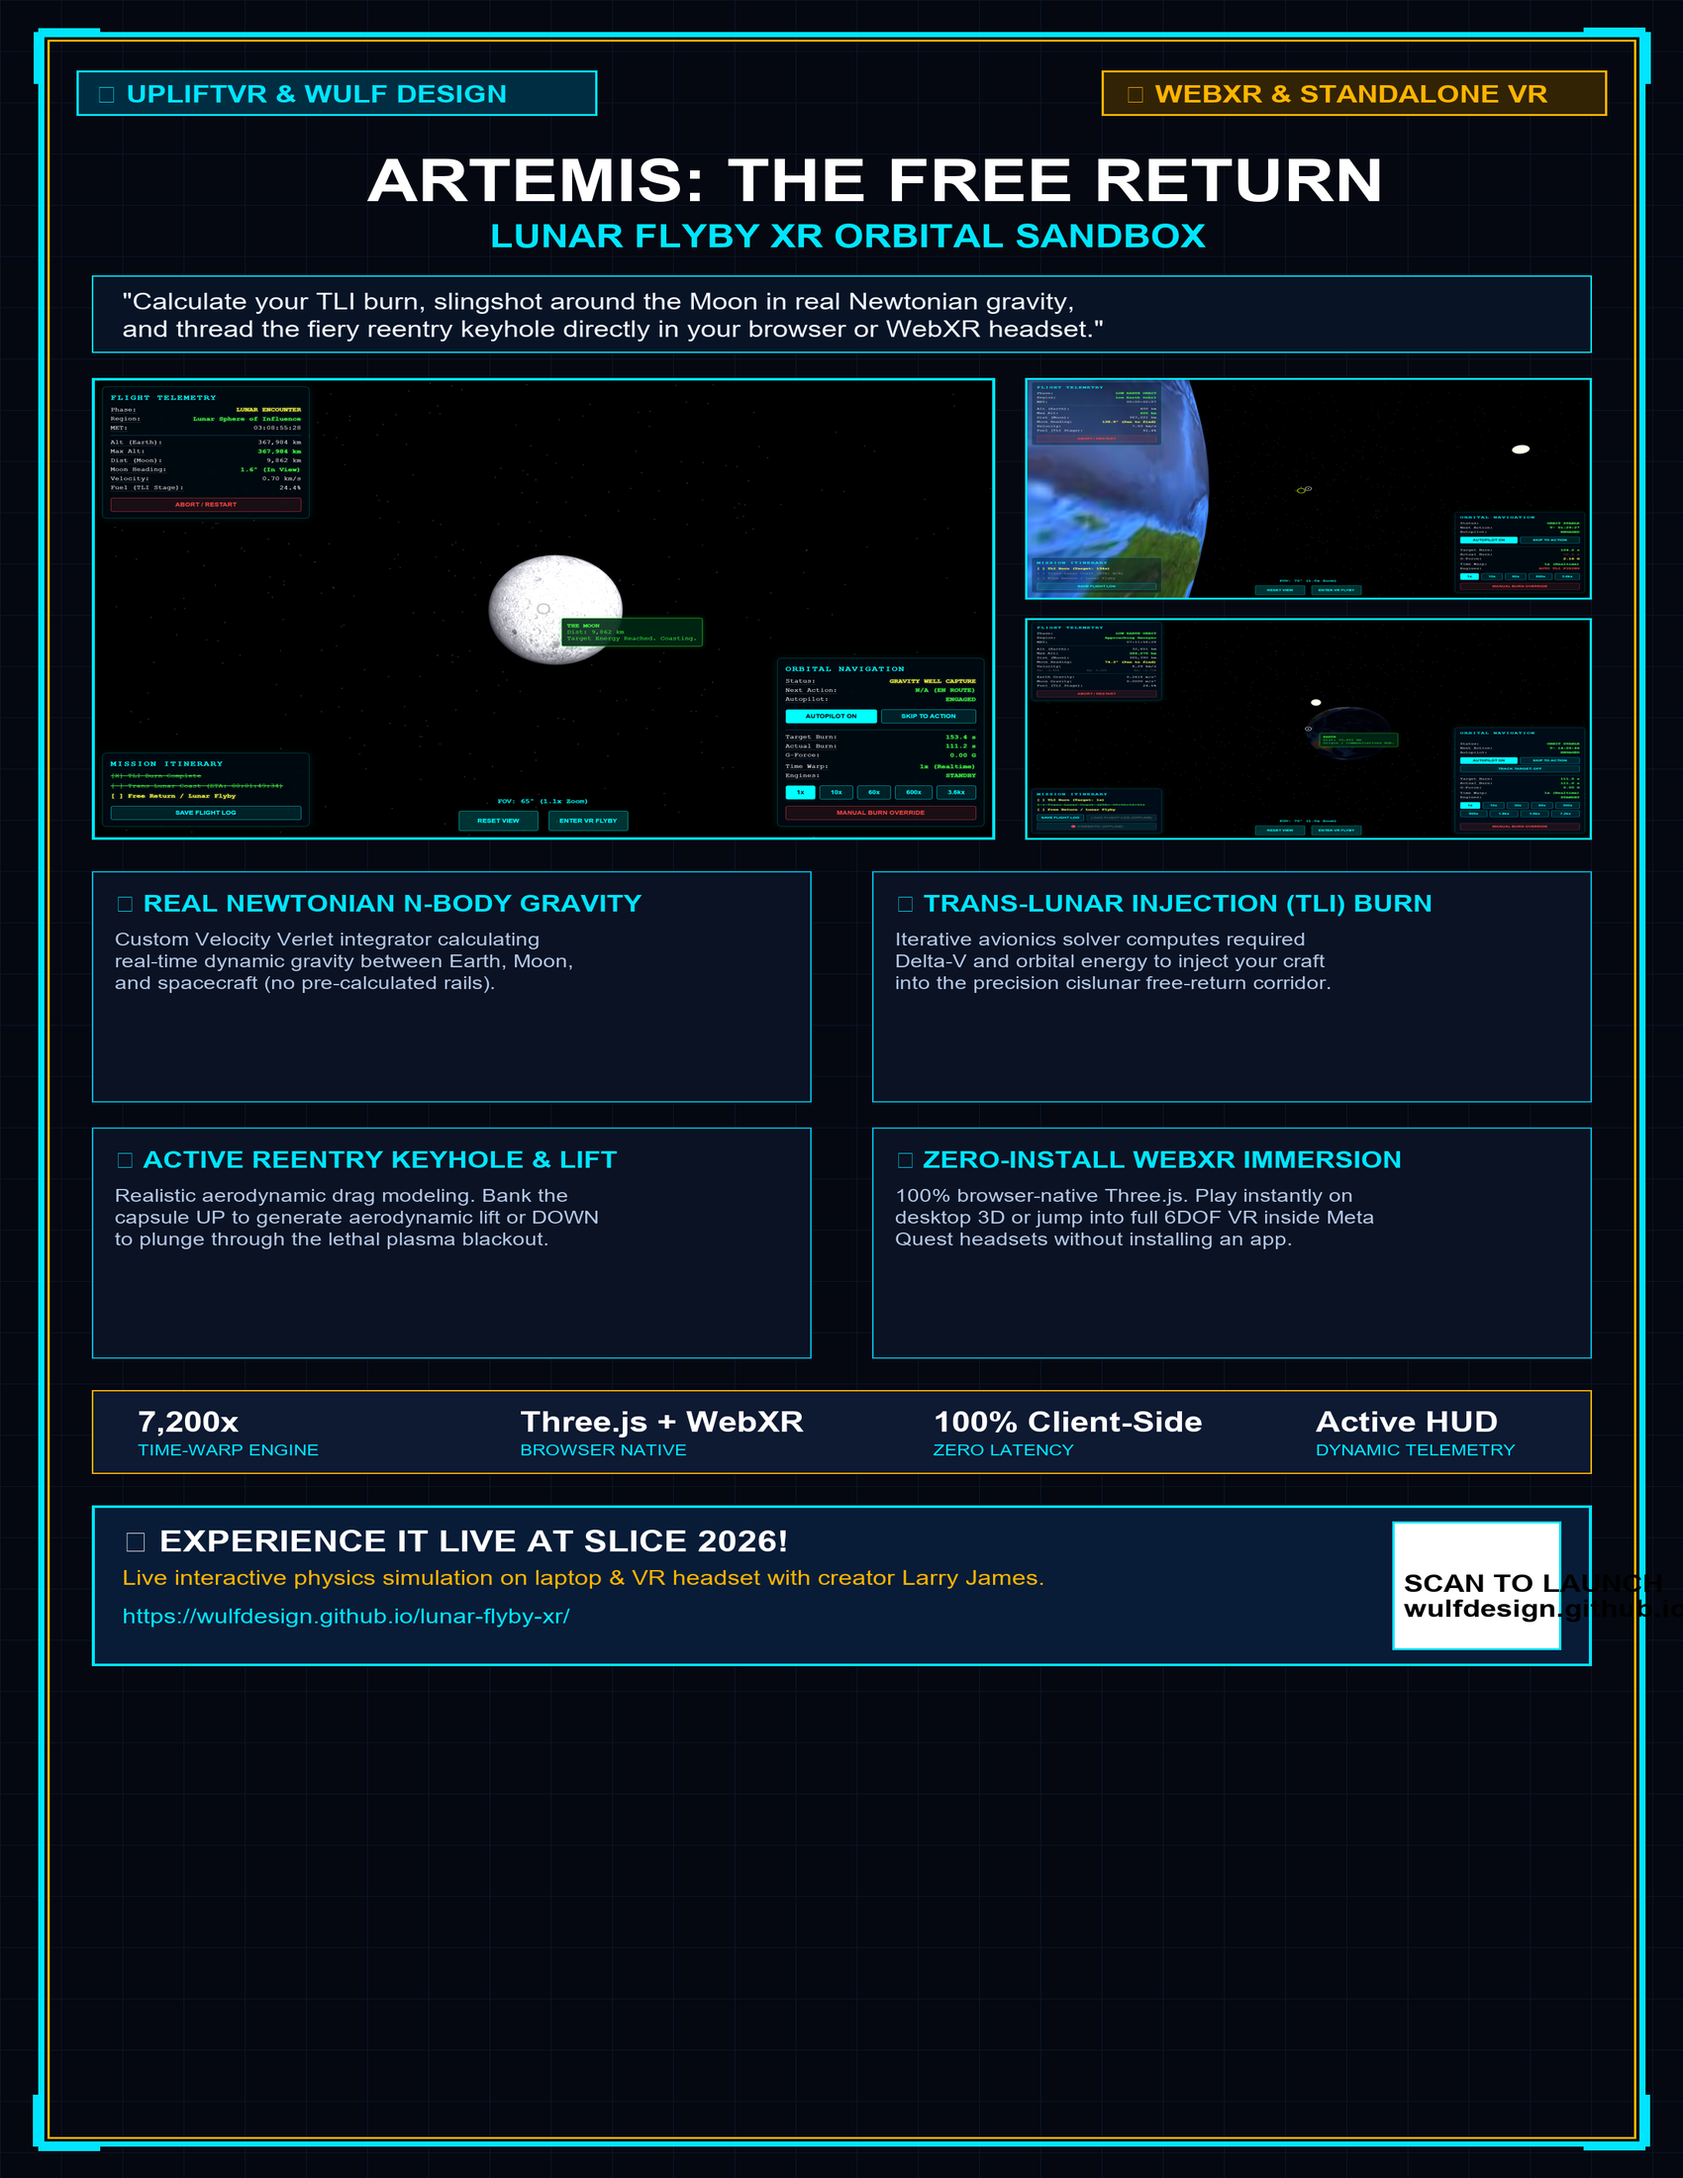
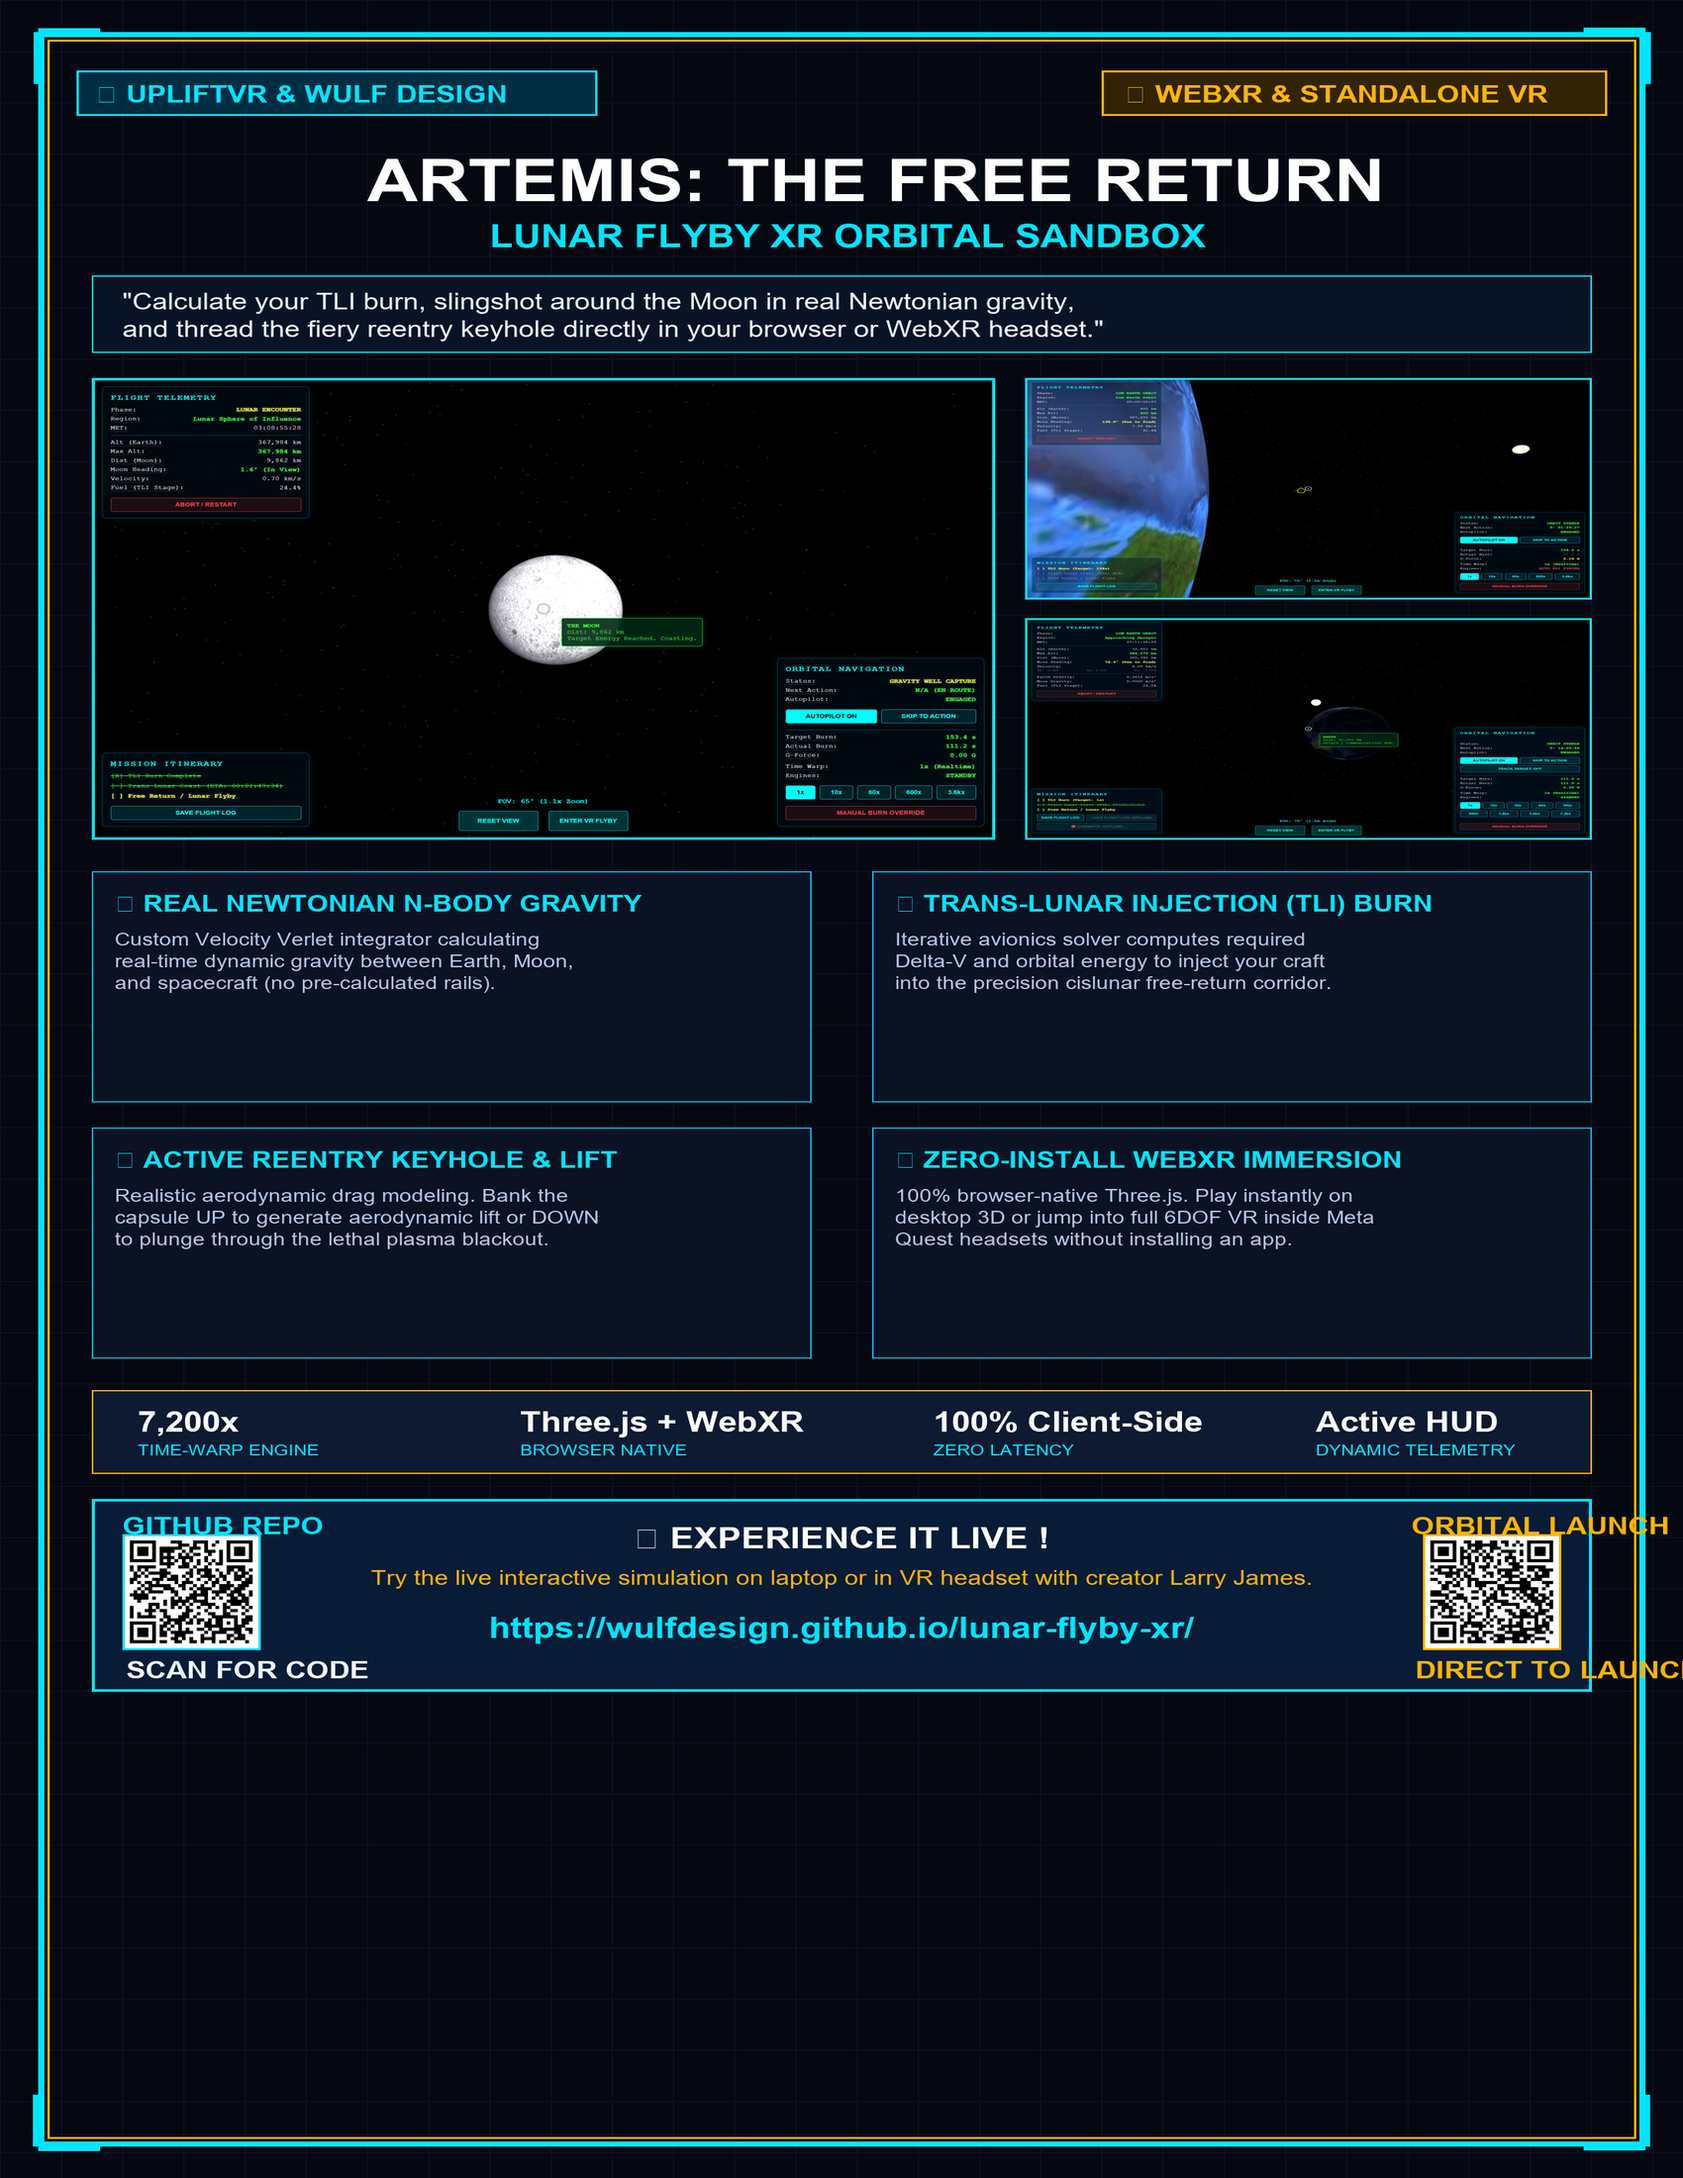
feat: Add dual QR codes (GitHub Repo & Orbital Launch) with center-aligned CTA to 11x17 poster and 300 DPI generator

Changed region(s): [[0.0624, 0.68, 0.9976, 0.8036]]

diff --git a/print/poster_11x17.html b/print/poster_11x17.html
@@ -251,55 +251,99 @@
             font-weight: 600;
         }
 
-        /* Footer & Call To Action (QR Code & Demo) */
+        /* Footer & Call To Action (Dual QR Codes & Centered CTA) */
         .poster-footer {
             background: linear-gradient(180deg, rgba(0, 229, 255, 0.12) 0%, rgba(0, 229, 255, 0.04) 100%);
             border: 2px solid var(--cyan-glow);
             border-radius: 8px;
-            padding: 18px 25px;
+            padding: 14px 20px;
             display: flex;
             justify-content: space-between;
             align-items: center;
+            gap: 15px;
         }
 
-        .cta-info h2 {
+        .qr-card-block {
+            display: flex;
+            flex-direction: column;
+            align-items: center;
+            text-align: center;
+            width: 125px;
+            flex-shrink: 0;
+        }
+
+        .qr-card-title {
             font-family: 'Orbitron', sans-serif;
-            font-size: 1.5rem;
+            font-size: 0.8rem;
+            font-weight: 800;
+            letter-spacing: 1px;
+            color: var(--cyan-glow);
+            margin-bottom: 5px;
+            text-transform: uppercase;
+        }
+
+        .qr-gold-title {
+            color: var(--gold-accent);
+        }
+
+        .qr-card-img-wrap {
+            width: 105px;
+            height: 105px;
+            background: #ffffff;
+            border: 2px solid var(--cyan-glow);
+            border-radius: 6px;
+            padding: 4px;
+            box-shadow: 0 4px 15px rgba(0, 0, 0, 0.5);
+            display: flex;
+            justify-content: center;
+            align-items: center;
+        }
+
+        .qr-card-img-wrap img {
+            width: 100%;
+            height: 100%;
+            display: block;
+        }
+
+        .qr-card-sub {
+            font-family: 'Orbitron', sans-serif;
+            font-size: 0.65rem;
+            font-weight: 700;
+            letter-spacing: 1px;
+            color: #ffffff;
+            margin-top: 4px;
+            text-transform: uppercase;
+        }
+
+        .cta-center {
+            flex: 1;
+            text-align: center;
+            padding: 0 10px;
+        }
+
+        .cta-center h2 {
+            font-family: 'Orbitron', sans-serif;
+            font-size: 1.45rem;
             color: #ffffff;
             letter-spacing: 1px;
+            text-shadow: 0 0 15px rgba(0, 229, 255, 0.4);
         }
 
-        .cta-info p {
-            font-size: 1.1rem;
+        .cta-center p {
+            font-size: 1.05rem;
             color: var(--gold-accent);
             font-weight: 600;
             margin-top: 4px;
+            line-height: 1.3;
         }
 
         .cta-url {
             font-family: 'Orbitron', sans-serif;
-            font-size: 1.15rem;
+            font-size: 1.05rem;
             color: var(--cyan-glow);
             margin-top: 6px;
             letter-spacing: 1px;
-        }
-
-        .qr-placeholder {
-            width: 110px;
-            height: 110px;
-            background: #ffffff;
-            border: 3px solid var(--cyan-glow);
-            border-radius: 6px;
-            display: flex;
-            flex-direction: column;
-            justify-content: center;
-            align-items: center;
-            color: #000;
-            font-weight: 800;
-            font-family: 'Orbitron', sans-serif;
-            font-size: 0.8rem;
-            text-align: center;
-            padding: 5px;
+            word-break: break-all;
         }
 
         /* Print Override */
@@ -398,16 +442,34 @@
                 </div>
             </div>
 
-            <!-- Footer & Live Experience Call To Action -->
+            <!-- Footer & Live Experience Call To Action (Dual QR Codes & Centered CTA) -->
             <div class="poster-footer">
-                <div class="cta-info">
-                    <h2>🎮 EXPERIENCE IT LIVE AT SLICE 2026!</h2>
+                
+                <!-- Left QR: GitHub Repo -->
+                <div class="qr-card-block">
+                    <div class="qr-card-title">GITHUB REPO</div>
+                    <div class="qr-card-img-wrap">
+                        <img src="qr_github_repo.svg" alt="GitHub Repo QR Code">
+                    </div>
+                    <div class="qr-card-sub">SCAN FOR CODE</div>
+                </div>
+
+                <!-- Center: Experience It Live CTA -->
+                <div class="cta-center">
+                    <h2>🎮 EXPERIENCE IT LIVE !</h2>
                     <p>Try the live interactive simulation on laptop or in VR headset with creator Larry James.</p>
                     <div class="cta-url">https://wulfdesign.github.io/lunar-flyby-xr/</div>
                 </div>
-                <div class="qr-placeholder">
-                    SCAN TO<br>LAUNCH<br>ORBIT
+
+                <!-- Right QR: Direct to Orbital Launch -->
+                <div class="qr-card-block">
+                    <div class="qr-card-title qr-gold-title">ORBITAL LAUNCH</div>
+                    <div class="qr-card-img-wrap" style="border-color: var(--gold-accent);">
+                        <img src="qr_orbital_launch.svg" alt="Orbital Launch QR Code">
+                    </div>
+                    <div class="qr-card-sub" style="color: var(--gold-accent);">DIRECT TO LAUNCH</div>
                 </div>
+
             </div>
 
         </div>

diff --git a/generate_lunar_poster.py b/generate_lunar_poster.py
@@ -141,15 +141,44 @@ def create_poster():
         draw.text((cx - 100, 2195), val, font=font_spec_val, fill=(255, 255, 255))
         draw.text((cx - 100, 2250), lbl, font=font_spec_lbl, fill=(0, 229, 255))
 
-    # Bottom CTA Box
-    draw.rectangle([(120, 2350), (w - 120, 2600)], fill=(8, 28, 55), outline=(0, 229, 255), width=4)
-    draw.text((160, 2380), "🎮 EXPERIENCE IT LIVE AT SLICE 2026!", font=font_cta, fill=(255, 255, 255))
-    draw.text((160, 2445), "Live interactive physics simulation on laptop & VR headset with creator Larry James.", font=font_cta_sub, fill=(255, 180, 0))
-    draw.text((160, 2505), "https://wulfdesign.github.io/lunar-flyby-xr/", font=font_cta_sub, fill=(0, 229, 255))
+    # Bottom CTA Box (Dual QR Codes & Centered CTA)
+    draw.rectangle([(120, 2340), (w - 120, 2640)], fill=(8, 28, 55), outline=(0, 229, 255), width=4)
+    
+    font_qr_title = ImageFont.truetype('arialbd.ttf', 24) if 'arialbd.ttf' in str(font_brand) else font_brand
+    font_qr_sub = ImageFont.truetype('arialbd.ttf', 20) if 'arialbd.ttf' in str(font_brand) else font_brand
 
-    # QR Code placeholder
-    draw.rectangle([(w - 380, 2375), (w - 160, 2575)], fill=(255, 255, 255), outline=(0, 229, 255), width=3)
-    draw.text((w - 365, 2450), "SCAN TO LAUNCH\nwulfdesign.github.io", font=ImageFont.truetype('arialbd.ttf', 18) if 'arialbd.ttf' in str(font_brand) else font_brand, fill=(0, 0, 0))
+    # Left QR: GitHub Repo
+    qr_repo_path = os.path.join(script_dir, 'print', 'qr_github_repo.png')
+    if os.path.exists(qr_repo_path):
+        qr_repo_img = Image.open(qr_repo_path).convert('RGB').resize((180, 180))
+        img.paste(qr_repo_img, (160, 2395))
+        draw.rectangle([(160, 2395), (340, 2575)], outline=(0, 229, 255), width=3)
+    draw.text((160, 2360), "GITHUB REPO", font=font_qr_title, fill=(0, 229, 255))
+    draw.text((165, 2585), "SCAN FOR CODE", font=font_qr_sub, fill=(240, 245, 255))
+
+    # Right QR: Orbital Launch
+    qr_launch_path = os.path.join(script_dir, 'print', 'qr_orbital_launch.png')
+    if os.path.exists(qr_launch_path):
+        qr_launch_img = Image.open(qr_launch_path).convert('RGB').resize((180, 180))
+        img.paste(qr_launch_img, (w - 340, 2395))
+        draw.rectangle([(w - 340, 2395), (w - 160, 2575)], outline=(255, 180, 0), width=3)
+    draw.text((w - 355, 2360), "ORBITAL LAUNCH", font=font_qr_title, fill=(255, 180, 0))
+    draw.text((w - 350, 2585), "DIRECT TO LAUNCH", font=font_qr_sub, fill=(255, 180, 0))
+
+    # Center Aligned Text
+    cta_title = "🎮 EXPERIENCE IT LIVE !"
+    cta_sub1 = "Try the live interactive simulation on laptop or in VR headset with creator Larry James."
+    cta_url = "https://wulfdesign.github.io/lunar-flyby-xr/"
+
+    # Calculate center bounding boxes
+    bbox_t = draw.textbbox((0, 0), cta_title, font=font_cta)
+    draw.text((w // 2 - (bbox_t[2] - bbox_t[0]) // 2, 2375), cta_title, font=font_cta, fill=(255, 255, 255))
+
+    bbox_s = draw.textbbox((0, 0), cta_sub1, font=font_cta_sub)
+    draw.text((w // 2 - (bbox_s[2] - bbox_s[0]) // 2, 2445), cta_sub1, font=font_cta_sub, fill=(255, 180, 0))
+
+    bbox_u = draw.textbbox((0, 0), cta_url, font=font_cta)
+    draw.text((w // 2 - (bbox_u[2] - bbox_u[0]) // 2, 2515), cta_url, font=font_cta, fill=(0, 229, 255))
 
     # Save output
     out_dir = os.path.join(script_dir, 'print')

diff --git a/generate_qr_codes.py b/generate_qr_codes.py
@@ -1,0 +1,43 @@
+import os
+import qrcode
+
+repo_url = 'https://github.com/wulfdesign/lunar-flyby-xr'
+launch_url = 'https://wulfdesign.github.io/lunar-flyby-xr/'
+
+out_dir = os.path.join(os.path.dirname(os.path.abspath(__file__)), 'print')
+os.makedirs(out_dir, exist_ok=True)
+
+# Generate PNGs
+qr_repo = qrcode.QRCode(version=None, error_correction=qrcode.constants.ERROR_CORRECT_M, box_size=12, border=2)
+qr_repo.add_data(repo_url)
+qr_repo.make(fit=True)
+img_repo = qr_repo.make_image(fill_color='black', back_color='white')
+img_repo.save(os.path.join(out_dir, 'qr_github_repo.png'))
+
+qr_launch = qrcode.QRCode(version=None, error_correction=qrcode.constants.ERROR_CORRECT_M, box_size=12, border=2)
+qr_launch.add_data(launch_url)
+qr_launch.make(fit=True)
+img_launch = qr_launch.make_image(fill_color='black', back_color='white')
+img_launch.save(os.path.join(out_dir, 'qr_orbital_launch.png'))
+
+# Generate SVGs
+def get_svg(qr_obj):
+    matrix = qr_obj.get_matrix()
+    dim = len(matrix)
+    rects = []
+    for r, row in enumerate(matrix):
+        for c, val in enumerate(row):
+            if val:
+                rects.append(f'<rect x="{c}" y="{r}" width="1.02" height="1.02" fill="#000000"/>')
+    return f'''<svg xmlns="http://www.w3.org/2000/svg" viewBox="0 0 {dim} {dim}" width="100%" height="100%" style="background:#ffffff; border-radius:4px;">
+  <rect width="{dim}" height="{dim}" fill="#ffffff"/>
+  {"".join(rects)}
+</svg>'''
+
+with open(os.path.join(out_dir, 'qr_github_repo.svg'), 'w', encoding='utf-8') as f:
+    f.write(get_svg(qr_repo))
+
+with open(os.path.join(out_dir, 'qr_orbital_launch.svg'), 'w', encoding='utf-8') as f:
+    f.write(get_svg(qr_launch))
+
+print('Generated QR codes for GitHub Repo and Orbital Launch successfully!')
